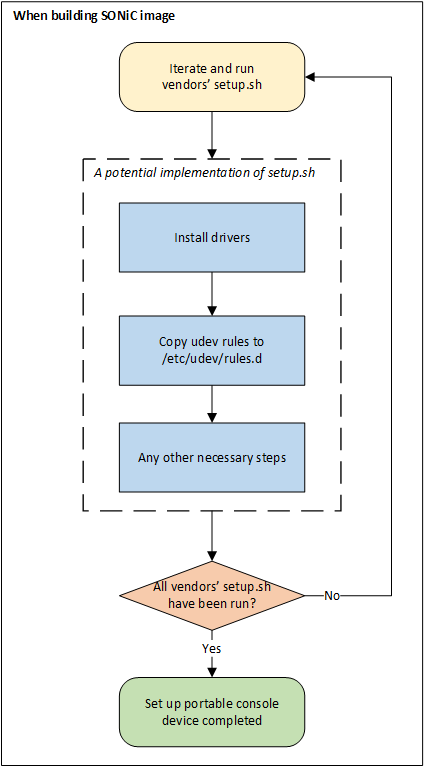
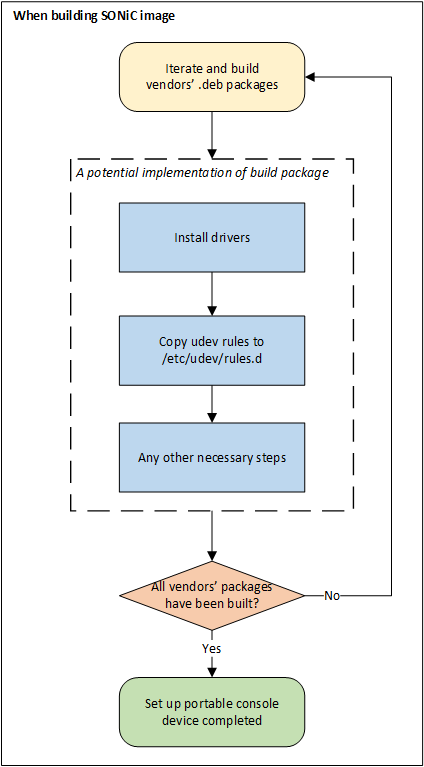
update the setup process

diff --git a/doc/console/Portable-Console-Switch-High-Level-Design.md b/doc/console/Portable-Console-Switch-High-Level-Design.md
@@ -4,7 +4,7 @@
 
 |  Rev  |   Date   |   Author   | Change Description |
 | :---: | :------: | :--------: | ------------------ |
-|  0.1  | 05/31/22 | Zhijian Li | Initial version    |
+|  0.1  | 07/20/22 | Zhijian Li | Initial version    |
 
 ## Overview
 
@@ -24,19 +24,13 @@ After the console device is plugged into the SONiC switch, we need to set up the
   2. Map console interface from `/dev/ttyUSB<id>` to `/dev/console-<line-number>`. (Usually done with the help of [udev](https://wiki.debian.org/udev))
   3. Any other necessary steps.
 
-Since we prefer the setup process completed after building SONiC image, a directory is provided to vendors to put all the files (eg. driver, udev `.rules`, etc.) they need. A `setup.sh` script file must be placed in this directory, which will be run **during the SONiC image build process**. After SONiC image has been built, all the necessary files will be installed.
+Vendors should package all the files and setup procedures into a corresponding `<vendor_name>-<model_name>.deb` file. Since we prefer the setup process completed after building a SONiC image, files used to build `.deb` packages should be put in the [Azure/sonic-buildimage](https://github.com/Azure/sonic-buildimage) repository, then the `.deb` packages will be built and installed automatically. 
 
 <!-- Pictures exported from Visio are zoomed to 70% -->
 
 ![A flow diagram to explain the setup process](./Portable-Console-Switch-High-Level-Design/setup.png)
 
-For example, vendor can prepare a `50-<vendor_name>-<model_name>.rules` file in this directory, and add the following lines in `setup.sh`:
-
-```bash
-cp ./50-<vendor_name>-<model_name>.rules /etc/udev/rules.d
-```
-
-Then SONiC will install the udev `.rules` file correctly and load it when system boot.
+For example, vendor can prepare a `50-<vendor_name>-<model_name>.rules` file in the `.deb` package, and copy it to `/etc/udev/rules.d` during the installation phase. In the post installation phase, vendor can use `udevadm trigger -c add` to trigger the udev rules.
 
 ### Udev `.rules` File Priority
 
